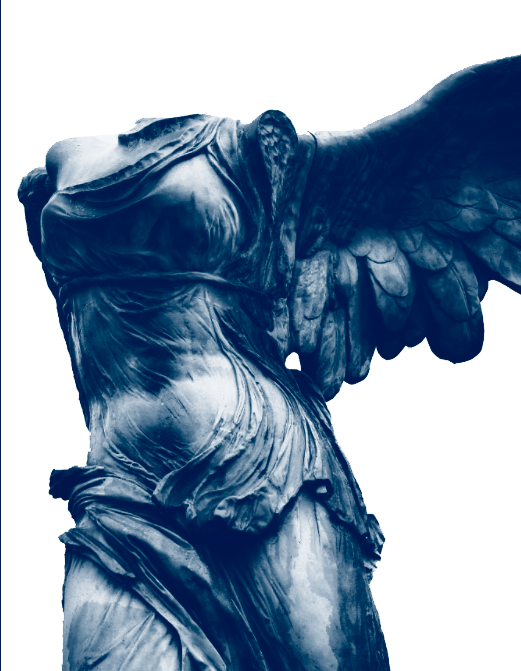
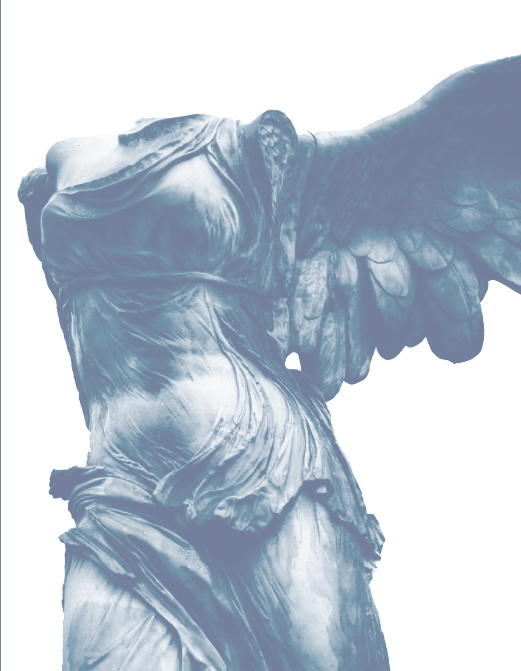
paralax example ready

diff --git a/paralax/src/demoControls.js b/paralax/src/demoControls.js
@@ -25,20 +25,20 @@ function addSlider(id, min, max, name, step) {
 
 let perspectiveSLD = addSlider('perspective', 0, 2000, "perspective", 1);
 let bkgndScale = addSlider('scaleImage1', 0, 2, "Scale Bckgnd", 0.1);
-let bkgndDepth = addSlider('depthImage1', 0, -1200, "Depth Bckgnd", 1);
+let bkgndDepth = addSlider('depthImage1', -1200, 0, "Depth Bckgnd", 1);
 let frgndScale = addSlider('scaleImage2', 0, 2, "Scale Frgrnd", 0.1);
-let frgndDepth = addSlider('depthImage2', 0, -1200, "Depth Frgrnd", 1);
+let frgndDepth = addSlider('depthImage2', -1200, 0, "Depth Frgrnd", 1);
 
 let currentBkgndScale = bkgndScale.children[0].value;
 let currentBkgndDepth = -900;
 let currentFrgndScale = frgndScale.children[0].value;
 let currentFrgndDepth = -200;
 
-perspectiveSLD.onchange = changePerspective;
-bkgndScale.onchange = changeBkgnd;
-bkgndDepth.onchange = changeBkgnd;
-frgndScale.onchange = changeFrgnd;
-frgndDepth.onchange = changeFrgnd;
+perspectiveSLD.children[0].onchange = changePerspective;
+bkgndScale.children[0].onchange = changeBkgnd;
+bkgndDepth.children[0].onchange = changeBkgnd;
+frgndScale.children[0].onchange = changeFrgnd;
+frgndDepth.children[0].onchange = changeFrgnd;
 
 function changePerspective() {
     let element = document.querySelector(".paralaxContainer");
@@ -54,7 +54,6 @@ function changeBkgnd() {
     element.style.transform = "translate3d(0px, 0px," + currentBkgndDepth + "px) scale(" + currentBkgndScale + "," + currentBkgndScale + ")";
     bkgndScale.children[1].textContent = bkgndScale.children[0].name + "  " + currentBkgndScale;
     bkgndDepth.children[1].textContent = bkgndDepth.children[0].name + "  " + currentBkgndDepth;
-    changePerspective();
 }
 
 function changeFrgnd() {

diff --git a/paralax/index.html b/paralax/index.html
@@ -8,19 +8,22 @@
 
 </head>
 
-<body>
+<body style="padding-left: 20%; padding-top:1%">
+
+    <!-- Copy these lines ...-->
     <div class="paralaxContainer">
         <div class="perspective-container">
             <div class="perspective-layer" id="layer-1" style="background-image: url(img/samotracia0.png);">Background</div>
-            <div class="perspective-layer" id="layer-2" style="background-image: url(img/samotracia2.png);">Foreground</div>
+            <div class="perspective-layer" id="layer-2" style="background-image: url(img/samotracia1.png);">Foreground</div>
             <section class="content-container">
                 <div class="content">
-                    <p>Samotracia</p>
+                    <H1>Vittoria di Samotracia</H1>
                 </div>
             </section>
         </div>
     </div>
     <script src="src/paralax.js"></script>
+    <!-- ... down to here -->
     <script src="src/demoControls.js"></script>
 
 </body>

diff --git a/paralax/css/paralax.css b/paralax/css/paralax.css
@@ -7,7 +7,7 @@ body {
     position: relative;
     top: 0;
     left: 0;
-    width: 40%;
+    width: 70%;
     height: 70%;
     background-color: #000000;
     background-repeat: no-repeat;
@@ -15,6 +15,7 @@ body {
     background-size: cover;
     overflow-x: hidden;
     overflow-y: hidden;
+    /* PERSPECTIVE */
     perspective: 1000px;
 }
 
@@ -38,10 +39,12 @@ body {
 }
 
 #layer-1 {
+    /* BACKGROUND DEPTH AND SCALE */
     transform: translate3d(0px, 0px, -900px) scale(1.2, 1.2);
 }
 
 #layer-2 {
+    /* FOREGROUND DEPTH AND SCALE */
     transform: translate3d(0px, 0px, -100px) scale(1.2, 1.2);
 }
 
@@ -58,13 +61,4 @@ body {
     transform: translate3d(-50%, -50%, -170px);
     text-align: center;
     color: white;
-}
-
-h2 {
-    font-size: 4vw;
-    text-decoration: underline;
-}
-
-h3 {
-    font-size: 5vw;
 }

diff --git a/paralax/src/paralax.js b/paralax/src/paralax.js
@@ -8,8 +8,8 @@ class Paralax {
         this.windowHeight = window.innerWidth;
         this.halfWidth = this.windowWidth / 2;
         this.halfHeight = this.windowHeight / 2;
-        this.maxYRotation = 8;
-        this.maxXRotation = 15;
+        this.maxYRotation = 32;
+        this.maxXRotation = 65;
         this.init();
         document.addEventListener('mousemove', this.rotateLayers.bind(this));
     }
